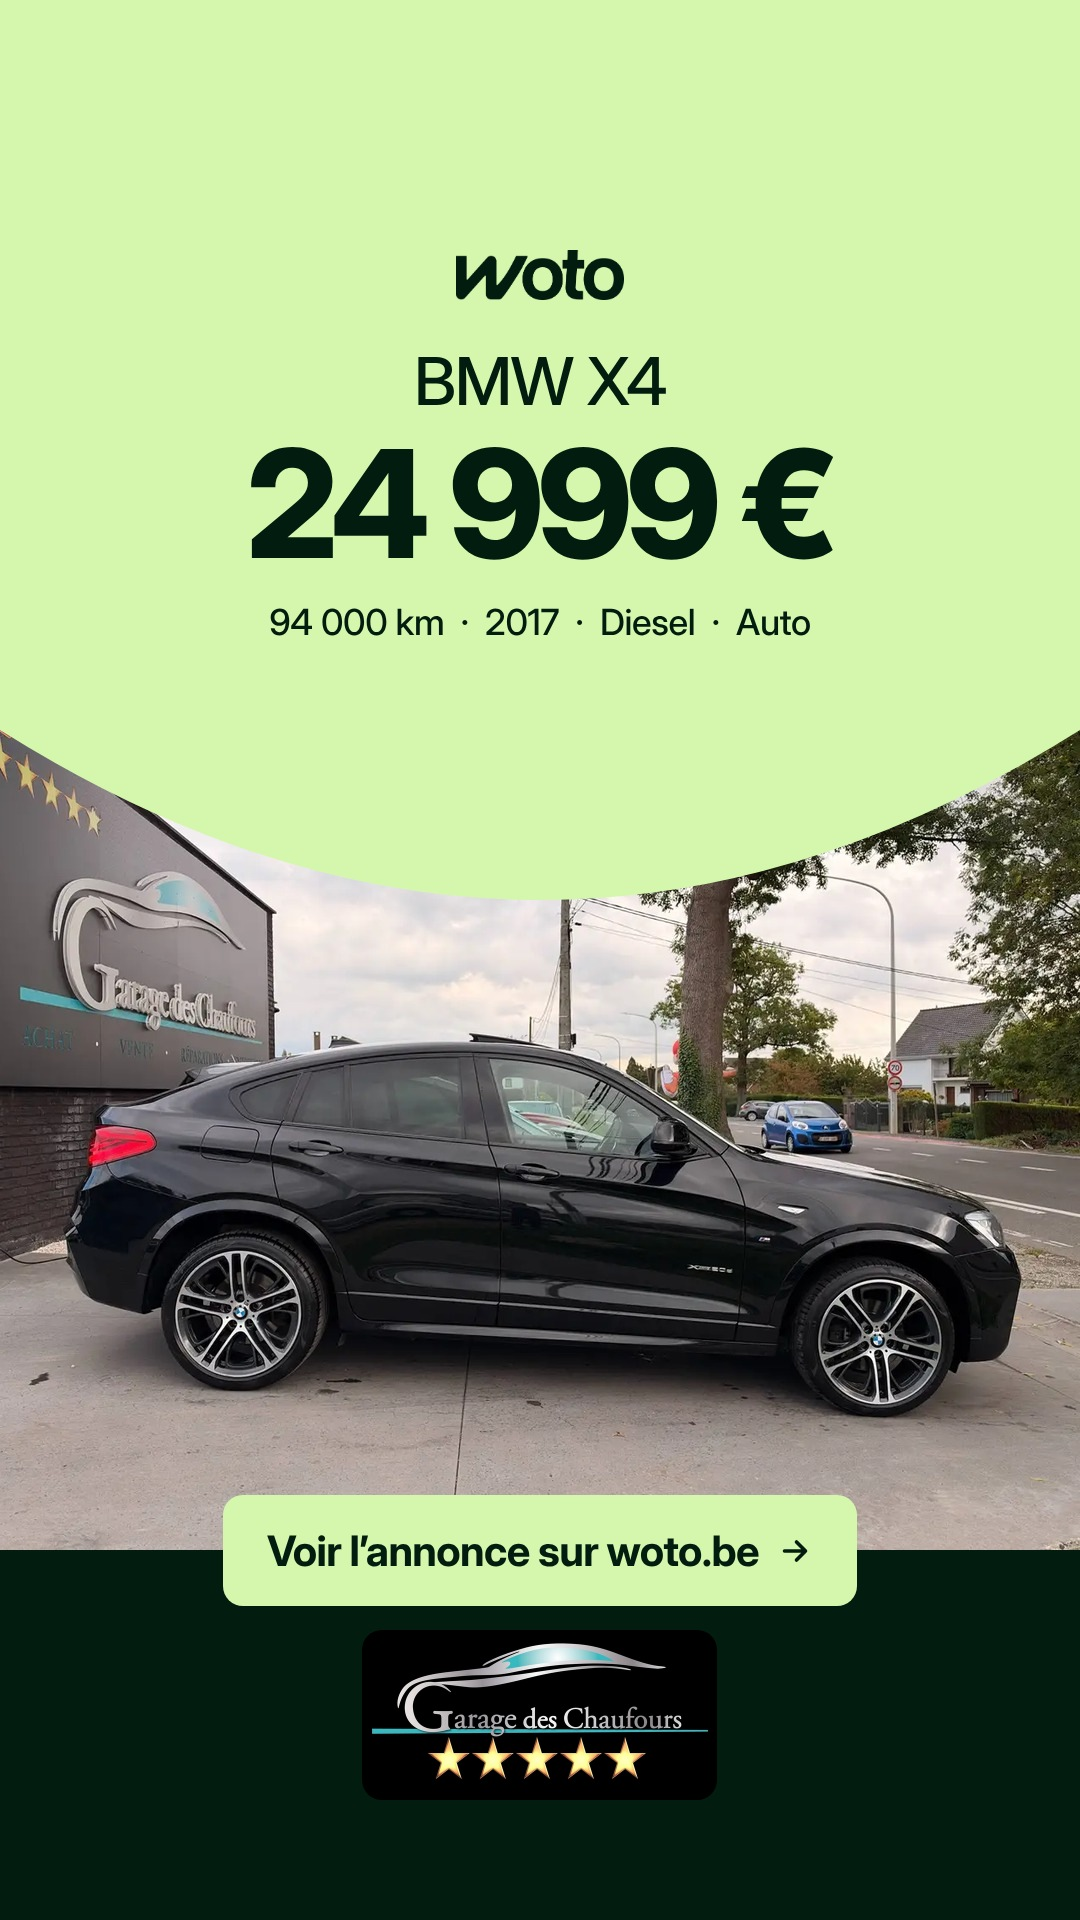
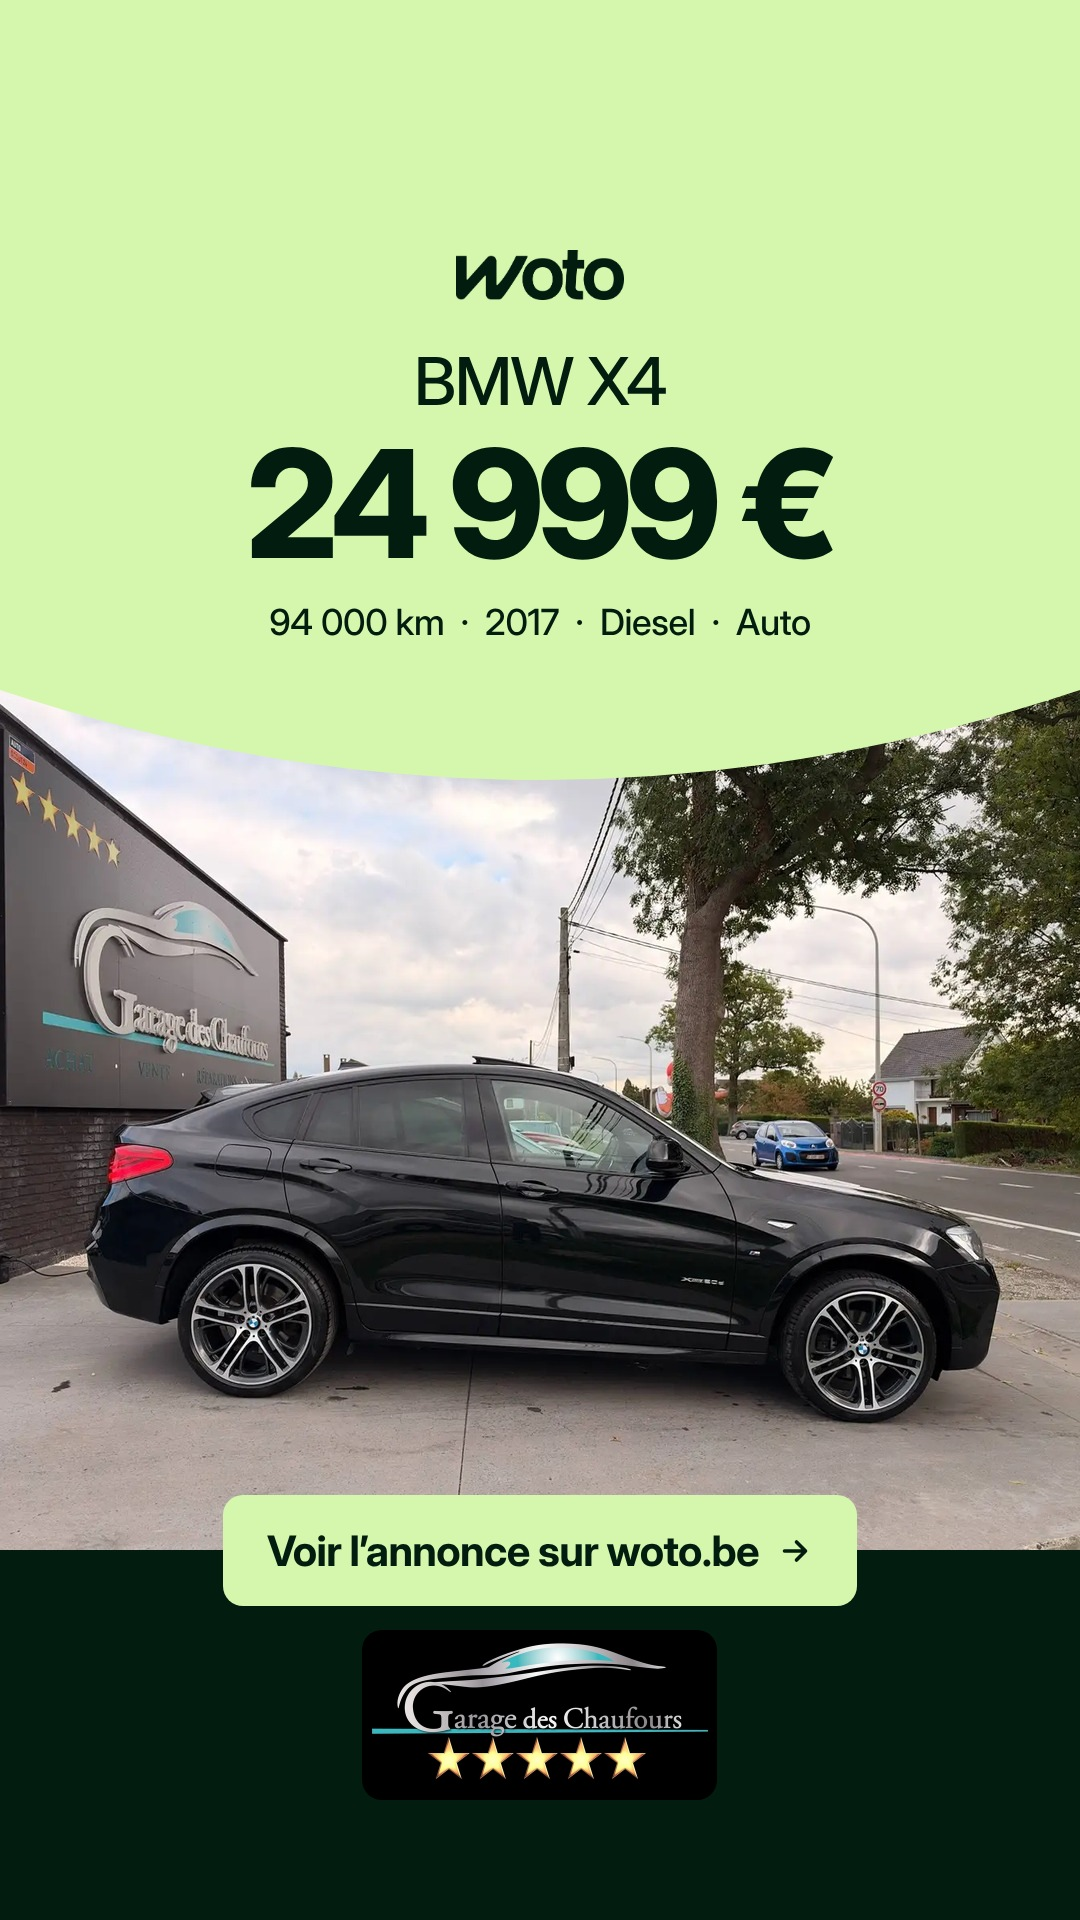
Courbe remontée pour dégager la voiture
Claude-Session: https://claude.ai/code/session_01BfDPyyb2PXNERkVvoFq1nv

Changed region(s): [[0.0, 0.3438, 1.0, 0.7812], [0.9778, 0.7812, 1.0, 0.8125]]

diff --git a/scripts/render_story.py b/scripts/render_story.py
@@ -15,7 +15,7 @@ from PIL import Image
 from playwright.async_api import async_playwright
 
 ROOT = pathlib.Path(__file__).resolve().parent.parent
-PHOTO_H = 910
+PHOTO_H = 870
 
 
 def crop_photo(src, focus, dst):
@@ -42,8 +42,8 @@ async def render(args):
         lw, lh = fit_logo(args.logo, box)
         page_html = f"""<!doctype html><meta charset=utf-8><style>*{{box-sizing:border-box}}body{{margin:0}}</style>
 <div style="position:relative;width:1080px;height:1920px;overflow:hidden;font-family:'Inter Display','Inter';color:#021D10;background:#021D10">
-<img src="file://{photo}" style="position:absolute;left:0;top:640px;width:1080px;height:910px;object-fit:cover">
-<svg style="position:absolute;left:0;top:0" width="1080" height="1100" viewBox="0 0 1080 1100"><path d="M0 0H1080V730Q540 1070 0 730Z" fill="#D5F7AD"/></svg>
+<img src="file://{photo}" style="position:absolute;left:0;top:680px;width:1080px;height:870px;object-fit:cover">
+<svg style="position:absolute;left:0;top:0" width="1080" height="1100" viewBox="0 0 1080 1100"><path d="M0 0H1080V690Q540 870 0 690Z" fill="#D5F7AD"/></svg>
 <img src="file://{ROOT}/assets/wordmark_forest.png" style="position:absolute;left:456px;top:250px;height:50px">
 <div style="position:absolute;left:0;right:0;top:345px;text-align:center;font-weight:500;font-size:66px;letter-spacing:-.025em;line-height:1.1">{html.escape(args.title)}</div>
 <div style="position:absolute;left:0;right:0;top:425px;text-align:center;font-weight:800;font-size:150px;letter-spacing:-.04em;line-height:1.05;white-space:nowrap">{html.escape(args.price)}</div>
